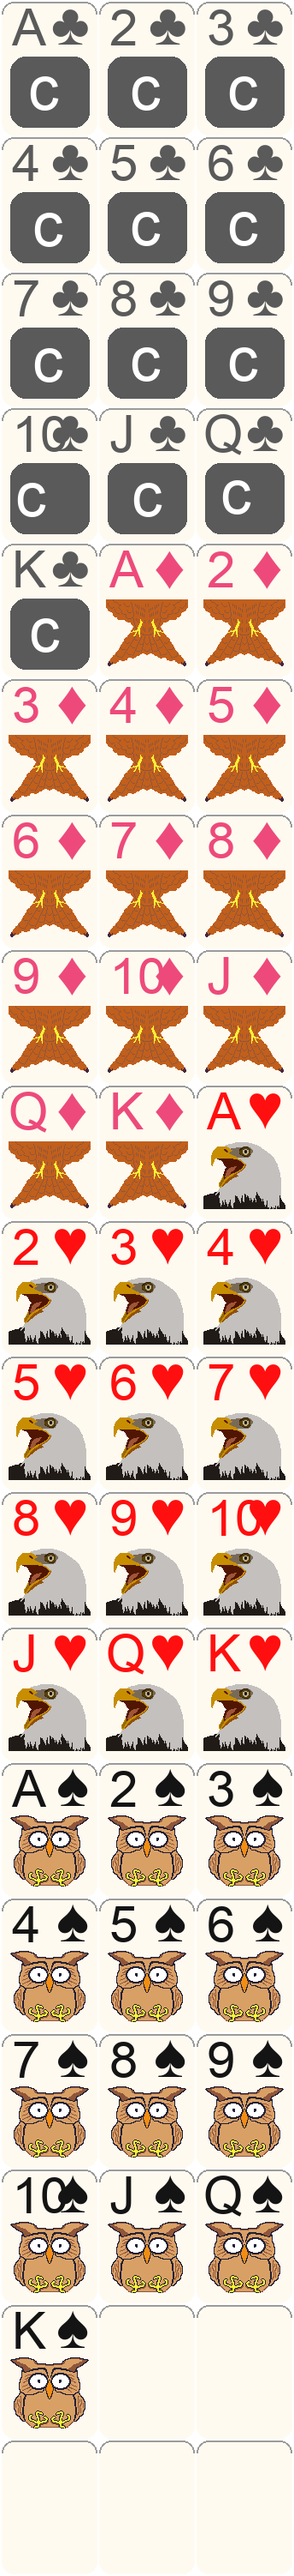
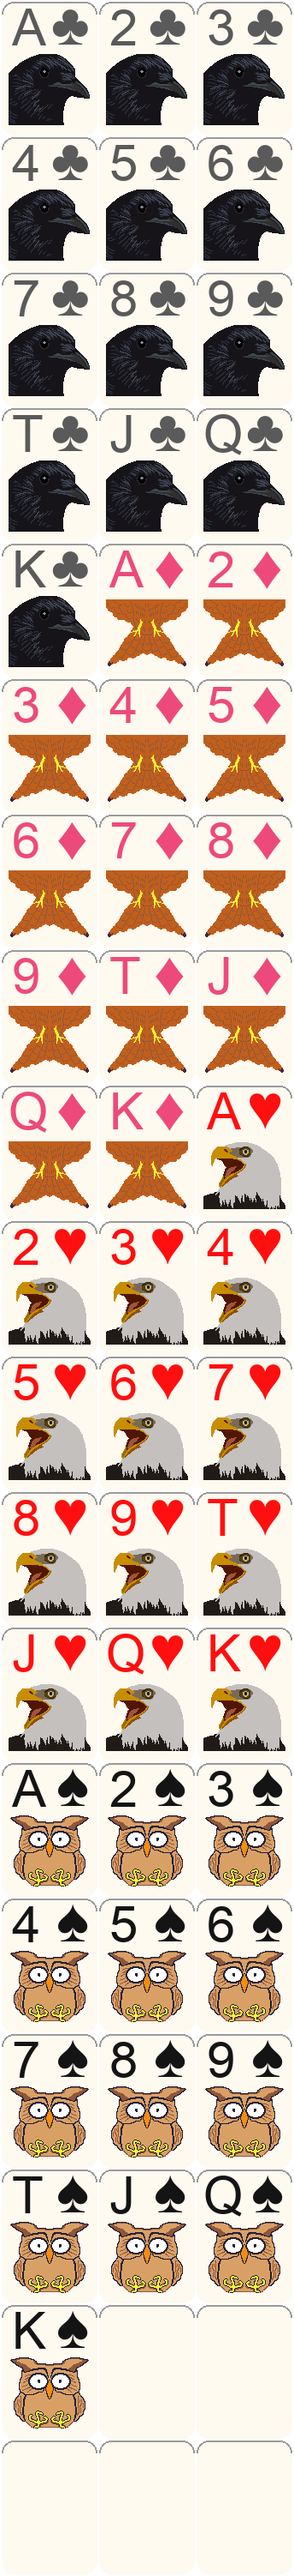
Crow image integrated on card fronts

diff --git a/dev/code/write_deck_resize.py b/dev/code/write_deck_resize.py
@@ -20,7 +20,7 @@ def generate_cards():
     ]
     
     # card values for each suit
-    card_values = ['A', '2', '3', '4', '5', '6', '7', '8', '9', '10', 'J', 'Q', 'K']
+    card_values = ['A', '2', '3', '4', '5', '6', '7', '8', '9', 'T', 'J', 'Q', 'K']
 
     suit_symbols = ['♣', '♦', '♥', '♠']  # clubs, diamonds, hearts, spades
     suit_letters = ['c', 'd', 'h', 's']
@@ -85,6 +85,14 @@ def generate_cards():
                   owl_y = y - 84 // 2 + 12 * scale
                   img.paste(owl_img, (owl_x, owl_y), owl_img.split()[3])
                 
+                elif suitLetter == 'c':
+                  crow_img = Image.open("public/assets/images/crow.png")
+                  if crow_img.mode != 'RGBA':
+                    crow_img = crow_img.convert('RGBA')
+                  crow_x = x - 96 // 2
+                  crow_y = y - 84 // 2 + 12 * scale
+                  img.paste(crow_img, (crow_x, crow_y), crow_img.split()[3])
+
                 elif suitLetter == 'h':
                   eagle_img = Image.open("public/assets/images/eagle.png")
                   if eagle_img.mode != 'RGBA':
@@ -105,11 +113,11 @@ def generate_cards():
                   draw.rounded_rectangle([rect_x1, graphic_y, rect_x2, rect_y2],
                                       radius=9 * scale, fill=colour, outline=colour, width=1)
 
-                # 2. white text super-imposed on colour rectangle
-                if suitLetter == 'c':
-                  text_x = x - text_width // 2
-                  text_y = y - text_height // 2 + 4 * scale
-                  draw.text((text_x, text_y), suitLetter, fill=(255,255,255), font=phFont)
+                # # 2. white text super-imposed on colour rectangle
+                # if suitLetter == 'c':
+                #   text_x = x - text_width // 2
+                #   text_y = y - text_height // 2 + 4 * scale
+                #   draw.text((text_x, text_y), suitLetter, fill=(255,255,255), font=phFont)
 
                 # 3. Small identifiers visible when card stacked
                 # font for top-left identifier
